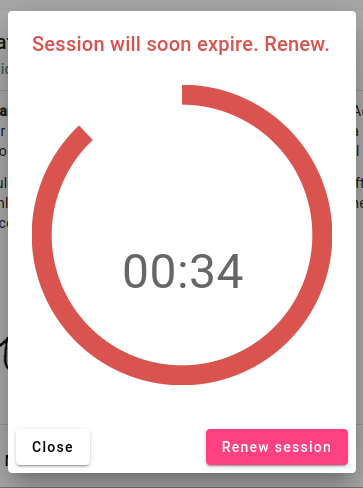
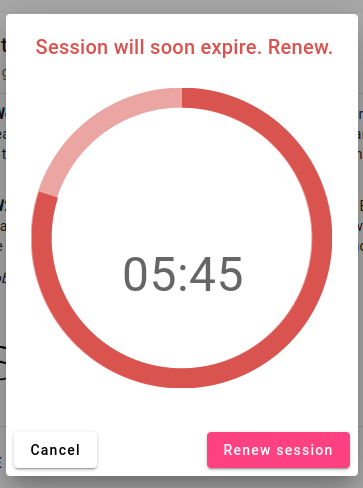
countdown spinner improvement

diff --git a/src/app/components/countdown-timer/countdown-spinner-timer-dialog.ts b/src/app/components/countdown-timer/countdown-spinner-timer-dialog.ts
@@ -128,7 +128,7 @@ import { CountdownSpinnerTimerData } from "src/app/models/utils/countdown-spinne
         this.percentage = Math.floor(((this.data.totalTimeSecs - (event.left/1000)) / this.data.totalTimeSecs) * 100);
 
         if (event.action === 'notify') {
-            const current: number = event.left / 1000;
+            const current: number = Math.ceil(event.left / 1000);
             
             if (current === this.data.notifications[0]) {
               this.bootstrapClass = EBootstrapColor.SUCCESS;
@@ -138,7 +138,6 @@ import { CountdownSpinnerTimerData } from "src/app/models/utils/countdown-spinne
               this.bootstrapClass = EBootstrapColor.DANGER;
               this.title = this.data.titleTextFinish;
             } else if (current === 1) {
-              console.log('Dialog - Session ended.') //TODO: remove after tests
               this.isSessionOver = true;
             }
           }
@@ -159,14 +158,11 @@ import { CountdownSpinnerTimerData } from "src/app/models/utils/countdown-spinne
     renewSession(): void {
       this._auth.verifyPassword(this.confirmationPassword.value).subscribe({
         next: (result: any) => {
-            console.log('Password verified with result:', result);
             switch (result.title) {
                 case EPasswordVerificationStatus.UNVERIFIED:
                 this.confirmationPassword.setErrors({'password': true});
                 break;
                 case EPasswordVerificationStatus.VERIFIED:
-                console.log('Session renewal confirmed.');
-
                 /* Getting new token via API */
                 const credentialsData: FormData = new FormData();
                 credentialsData.append('username', this._auth.getUsernameFromToken());
@@ -185,7 +181,6 @@ import { CountdownSpinnerTimerData } from "src/app/models/utils/countdown-spinne
                     this.setCountdownTimer(this.getCountdownTimeSecs(true));
                     this.bootstrapClass = EBootstrapColor.PRIMARY;
                     this.title = this.data.titleText;
-                    console.log('Dialog - Session renewed.') //TODO: remove after tests
 
                     /* prompting parent countdown timer to change */
                     this.onSessionRenewal.emit();

diff --git a/src/styles.scss b/src/styles.scss
@@ -28,6 +28,13 @@ $bootstrap-info: #5bc0de;
 $bootstrap-warning: #f0ad4e;
 $bootstrap-danger: #d9534f;
 
+/*Bootstrap lightened colors*/
+$bootstrap-light-primary: #77bffe;
+$bootstrap-light-success: #a3d7a3;
+$bootstrap-light-info: #afe0ef;
+$bootstrap-light-warning: #f8d8ab;
+$bootstrap-light-danger: #eba5a3;
+
 /*Custom colors*/
 $row-hovered: #f3f3f7;
 $row-highlighted: #dcdcdc;
@@ -248,6 +255,7 @@ $row-highlighted: #dcdcdc;
 .countdown-timer-content {
     .timer-spinner {
         margin: 10px auto;
+        z-index: 1;
 
         &.progress-primary circle {
             stroke: $bootstrap-primary !important;
@@ -264,7 +272,29 @@ $row-highlighted: #dcdcdc;
         &.progress-danger circle {
             stroke: $bootstrap-danger !important;
         }
+    }
 
+    .faded-spinner {
+        position: absolute;
+        top: 74px;
+        left: 25px;
+        z-index: 0;
+
+        &.faded-primary circle {
+            stroke: $bootstrap-light-primary !important;
+        }
+        &.faded-info circle {
+            stroke: $bootstrap-light-info !important;
+        }
+        &.faded-success circle {
+            stroke: $bootstrap-light-success !important;
+        }
+        &.faded-warning circle {
+            stroke: $bootstrap-light-warning !important;
+        }
+        &.faded-danger circle {
+            stroke: $bootstrap-light-danger !important;
+        }
     }
 
     .timer {

diff --git a/src/app/components/countdown-timer/countdown-timer.component.ts b/src/app/components/countdown-timer/countdown-timer.component.ts
@@ -114,7 +114,7 @@ export class CountdownTimerComponent implements OnInit {
    */
   handleCountdown(event: CountdownEvent): void {
     if (event.action === 'notify') {
-      const current: number = event.left / 1000;
+      const current: number = Math.ceil(event.left / 1000);
       
       if (current === this.notifications[0]) {
         this.bootstrapClass = EBootstrapColor.SUCCESS;
@@ -126,11 +126,7 @@ export class CountdownTimerComponent implements OnInit {
         if (!this.isDialogOpened) {
           this.displayDialog()
         }
-      } else {
-        console.log('Page - Session ended.') //TODO: remove after tests
       }
-    } else if (event.action == 'restart') {
-      console.log('Counter restarted')
     }
   }
 
@@ -156,7 +152,6 @@ export class CountdownTimerComponent implements OnInit {
     });
 
     dialogRef.componentInstance.onSessionRenewal.subscribe((result: any) => {
-      console.log('Page - Session renewed.'); //TODO: remove after tests
       /* setting countdown timer & button appearance */
       this.setCountdownTimer(this.getCountdownTimeSecs());
       this.bootstrapClass = EBootstrapColor.PRIMARY;

diff --git a/src/app/components/home/home.component.html b/src/app/components/home/home.component.html
@@ -28,6 +28,11 @@
             create, update or delete any entries.
             Users can also permanently remove their accounts.
         </p>
+        <p>
+            <b>WARNING</b>: During using {{ this.title }} webapp it is highly disrecommended to have launched other applications 
+            (including games like <a href="https://www.supaplex.online/">Supaplex Online</a>) utilizing significant amounts of browser memory. 
+            This may cause the several webapp fuctionalities not to work properly due to browser memory overload.
+        </p>
         <p><b>ENJOY</b>, <i>Dzhejkob Awaria</i></p>
         <img mat-card-image class="card-image card-image-reduced" alt="Dzhejkob Awaria autograph" src="/assets/images/dzhawaria_autograph_capitals.png">
     </mat-card-content>

diff --git a/src/app/components/countdown-timer/countdown-spinner-timer-dialog.html b/src/app/components/countdown-timer/countdown-spinner-timer-dialog.html
@@ -16,6 +16,15 @@
             [strokeWidth]="this.data.spinnerStrokeWidth"
             [value]="this.percentage">
         </mat-progress-spinner>
+        <!-- Faded static progress spinner -->
+        <mat-progress-spinner
+            class="faded-spinner"
+            [class]="'faded-' + this.bootstrapClass"
+            [mode]="'determinate'"
+            [diameter]="this.data.spinnerDiameter"
+            [strokeWidth]="this.data.spinnerStrokeWidth"
+            [value]="100">
+        </mat-progress-spinner>
 
         <!-- Countdown timer -->
         <countdown
